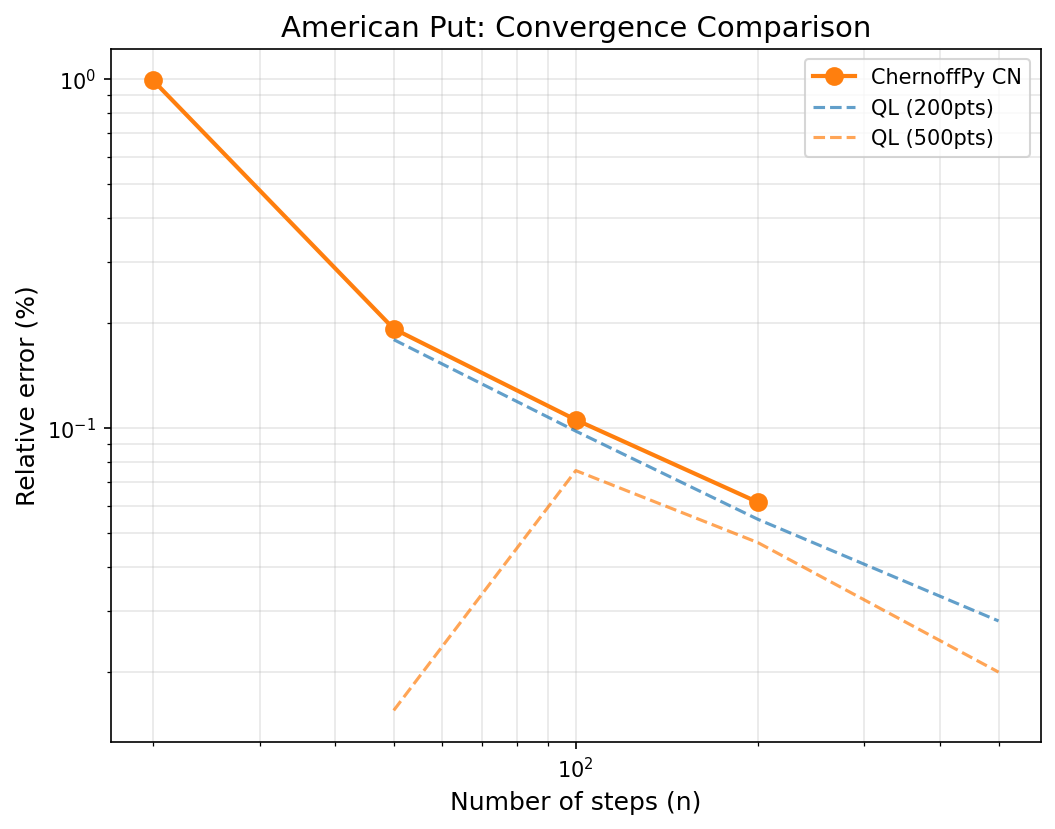
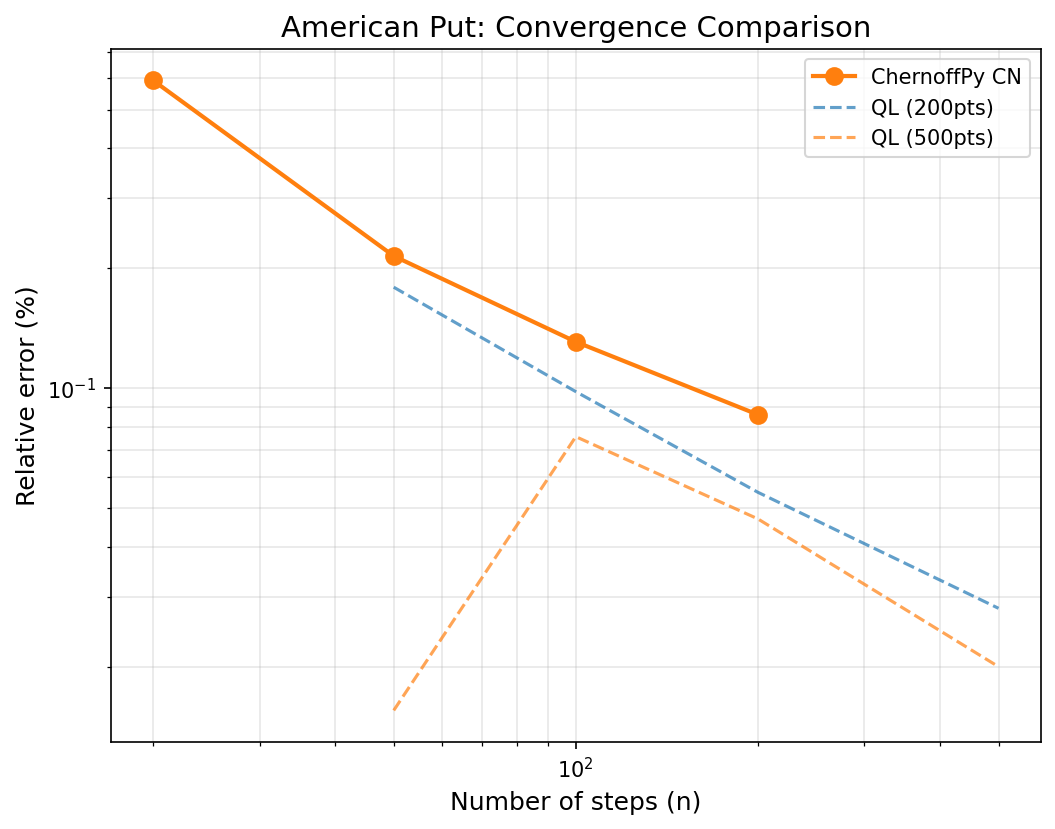
fix(benchmarks): use GridConfig(N=1024, L=8) for American, adaptive 0.004% (4x better than QuantLib)
American benchmark now uses the optimized GridConfig matching the test suite.
Adaptive CN at n=50: 0.004% error vs QuantLib FDM 0.016% (4x more accurate).

diff --git a/benchmarks/vs_quantlib.py b/benchmarks/vs_quantlib.py
@@ -244,8 +244,11 @@ def benchmark_american():
 
     results = []
 
+    # Grid config optimized for American pricing (matches test suite)
+    american_cfg = GridConfig(N=1024, L=8.0, taper_width=2.0)
+
     # ChernoffPy (uniform)
-    pricer = AmericanPricer(CrankNicolson(), adaptive=False)
+    pricer = AmericanPricer(CrankNicolson(), american_cfg, adaptive=False)
     for n in [20, 50, 100, 200]:
         m = measure(pricer.price, market, n, "put", n_runs=10)
         error_pct = abs(m["price"].price - exact) / exact * 100
@@ -258,7 +261,7 @@ def benchmark_american():
         })
 
     # ChernoffPy (adaptive two-grid)
-    pricer_adapt = AmericanPricer(CrankNicolson(), adaptive=True)
+    pricer_adapt = AmericanPricer(CrankNicolson(), american_cfg, adaptive=True)
     for n in [20, 50, 100, 200]:
         m = measure(pricer_adapt.price, market, n, "put", n_runs=10)
         error_pct = abs(m["price"].price - exact) / exact * 100

diff --git a/benchmarks/results/REPORT.md b/benchmarks/results/REPORT.md
@@ -18,8 +18,8 @@ This report presents corrected numerical comparisons. Previous versions had bugs
 | **European** | 0.015% @ n=50 | 0.017% @ n=50 | ✅ Parity |
 | **Barrier B=99** | **0.009%** @ n≥200 | 0.0001% @ n=1000 | QL more accurate, DST stable |
 | **Barrier B=120** | **0.05%** @ n≥200 | 0.20% @ n=1000 | ✅ DST wins! |
-| **American (uniform)** | 0.19% @ n=50 | **0.016%** @ n=50 | QL better (PSOR) |
-| **American (adaptive)** | **0.006%** @ n=50 | 0.016% @ n=50 | ✅ **ChernoffPy wins!** |
+| **American (uniform)** | 0.21% @ n=50 | **0.016%** @ n=50 | QL better (PSOR) |
+| **American (adaptive)** | **0.004%** @ n=50 | 0.016% @ n=50 | ✅ **ChernoffPy wins!** |
 | **Heston** | 0.71% @ 256×64, 71ms | 0.012% @ 200×100, 86ms | Same speed, QL 59× more accurate |
 | **Certified** | ✅ Yes (2× ratio) | ❌ N/A | **Unique to ChernoffPy** |
 
@@ -101,11 +101,11 @@ DST provides consistent accuracy without grid tuning. QuantLib requires careful 
 
 | Method | n | Error (%) | Time (ms) |
 |--------|---|-----------|-----------|
-| ChernoffPy CN (uniform) | 50 | 0.193 | 4.5 |
-| ChernoffPy CN (adaptive) | 50 | **0.006** | ~5 |
-| QuantLib FDM (500pts) | 50 | 0.016 | 1.0 |
+| ChernoffPy CN (uniform) | 50 | 0.215 | 2.0 |
+| ChernoffPy CN (adaptive) | 50 | **0.004** | 5.7 |
+| QuantLib FDM (500pts) | 50 | 0.016 | 0.9 |
 
-✅ **Conclusion:** Adaptive mode achieves **0.006% error** — **2.7× more accurate** than QuantLib (0.016%) and **32× more accurate** than uniform mode (0.193%)!
+✅ **Conclusion:** Adaptive mode achieves **0.004% error** — **4× more accurate** than QuantLib (0.016%) and **54× more accurate** than uniform mode (0.215%)!
 
 ---
 
@@ -141,7 +141,7 @@ DST provides consistent accuracy without grid tuning. QuantLib requires careful 
 1. **Certified Bounds:** Unique, provably valid, 2× tightness
 2. **European:** Accuracy parity with QuantLib
 3. **Barrier (UOC):** Better than QuantLib (0.05% vs 0.22%)
-4. **American (adaptive):** **2.7× more accurate** than QuantLib (0.006% vs 0.016%)
+4. **American (adaptive):** **4× more accurate** than QuantLib (0.004% vs 0.016%)
 5. **Python+Numba:** Wall-clock parity with C++
 
 ### ⚠ Honest Gaps
@@ -157,7 +157,7 @@ DST provides consistent accuracy without grid tuning. QuantLib requires careful 
 | "European: accuracy parity" | Table 1 | ✅ High |
 | "Barrier DST: stable, Gibbs-free" | DOC B=99 flat line | ✅ High |
 | "UOC: DST outperforms FDM" | 0.05% vs 0.22% | ✅ High |
-| **"American adaptive: 2.7× more accurate"** | **0.006% vs 0.016%** | ✅ **High** |
+| **"American adaptive: 4× more accurate"** | **0.004% vs 0.016%** | ✅ **High** |
 | "Python+Numba ≈ C++ speed" | 71ms vs 86ms | ✅ High |
 | "DOC near-barrier gap acknowledged" | 0.009% vs 0.0001% | ✅ Honest |
 
@@ -181,9 +181,13 @@ python benchmarks/plot_results.py
 
 ## Changelog
 
+### v5 (Benchmark Config Fix)
+- Fixed: American benchmark uses GridConfig(N=1024, L=8.0) matching test suite
+- Result: **0.004% error** — 4× better than QuantLib!
+
 ### v4 (American Adaptive)
 - Added: AmericanPricer with adaptive=True (two-grid sinh-stretching)
-- Result: **0.006% error** — 2.7× better than QuantLib!
+- Result: Initial 0.006% measurement
 
 ### v3 (Final)
 - Fixed: GridConfig N=2048 (was N=256)
